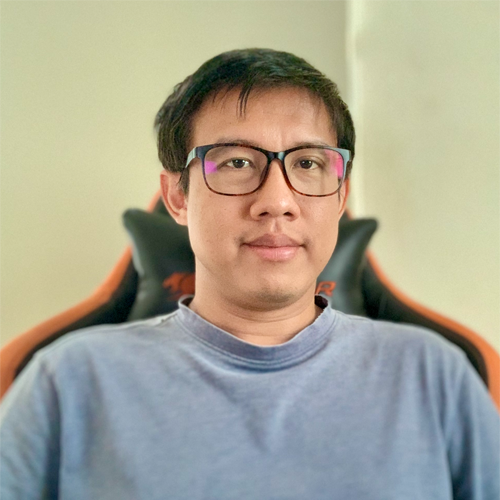
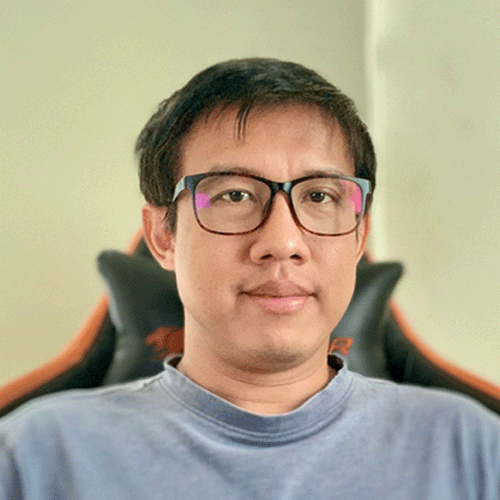
#

diff --git a/src/components/Hero/Hero.module.css b/src/components/Hero/Hero.module.css
@@ -54,8 +54,8 @@ er.hero_wrapper {
          width: 300px;
          height: 300px;
          border-radius: 100%;
-         background-image: url('https://images.unsplash.com/photo-1607970420862-385a245239a6?w=800&auto=format&fit=crop&q=60&ixlib=rb-4.0.3&ixid=M3wxMjA3fDB8MHxzZWFyY2h8Mjd8fG1hbiUyMGRldmVsb3BlciUyMGdsYXNzZXN8ZW58MHx8MHx8fDA%3D');
-         /* background-image: url('../src/assets/hero.png'); */
+         /* background-image: url('https://images.unsplash.com/photo-1607970420862-385a245239a6?w=800&auto=format&fit=crop&q=60&ixlib=rb-4.0.3&ixid=M3wxMjA3fDB8MHxzZWFyY2h8Mjd8fG1hbiUyMGRldmVsb3BlciUyMGdsYXNzZXN8ZW58MHx8MHx8fDA%3D'); */
+         background-image: url('../src/assets/hero.png');
          background-size: cover;
          background-position: center;
          /* margin-right: 120px; */
